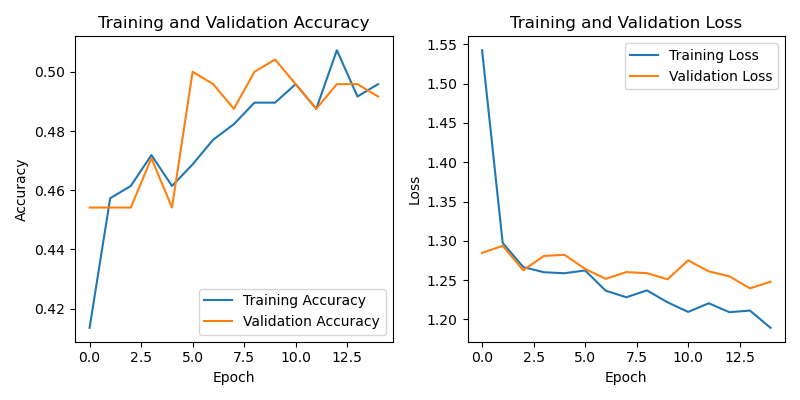
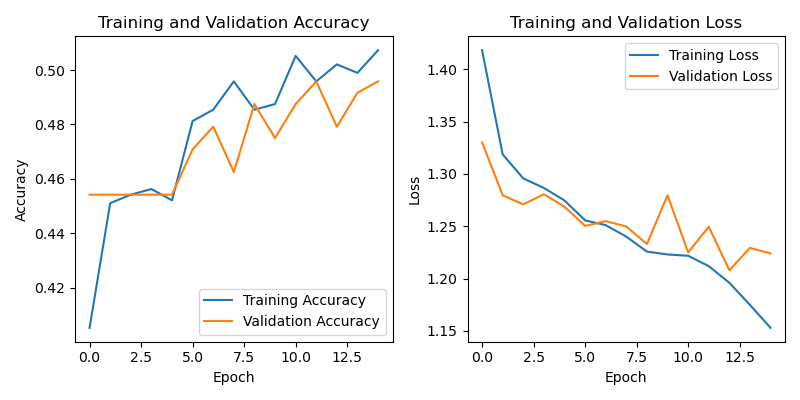
Retarget dataset paths to sibling MLImages, refresh result plots
cnn.py and svm.py now read from ../MLImages/Messidor1/All (sibling
checkout) instead of the in-repo ./MLImages/Messidor1/All224.

gan_generator.py is left in mid-experiment state: image_dir points at
./MLImages/tempAll while metadata_path still references
./MLImages/All64/metadata.csv. Committed as-is to preserve the working
state rather than guess the intended pairing.

svm_confusion_matrix.png and training_validation_plot.png regenerated
from the latest run.

diff --git a/cnn.py b/cnn.py
@@ -8,8 +8,8 @@ from sklearn.model_selection import train_test_split
 import tensorflow as tf
 from tensorflow.keras import layers, models
 
-image_dir = './MLImages/Messidor1/All224'
-metadata_path = './MLImages/Messidor1/Annotation_Base_CSV/Annotation_All.csv'
+image_dir = '../MLImages/Messidor1/All'
+metadata_path = '../MLImages/Messidor1/Annotation_Base_CSV/Annotation_All.csv'
 img_height = 224
 img_width = 224
 batch_size = 32

diff --git a/svm.py b/svm.py
@@ -13,8 +13,8 @@ import tensorflow as tf
 from tensorflow.keras.applications import vgg16
 from tensorflow.keras import layers, models
 
-image_dir = './MLImages/Messidor1/All224'
-metadata_path = './MLImages/Messidor1/Annotation_Base_CSV/Annotation_All.csv'
+image_dir = '../MLImages/Messidor1/All'
+metadata_path = '../MLImages/Messidor1/Annotation_Base_CSV/Annotation_All.csv'
 img_height = 224
 img_width = 224
 img_channels = 3

diff --git a/gan_generator.py b/gan_generator.py
@@ -19,7 +19,7 @@ batch_size = 32
 buffer_size = 4759
 learning_rate = 1e-4
 
-image_dir = './MLImages/All64'
+image_dir = './MLImages/tempAll'
 metadata_path = './MLImages/All64/metadata.csv'
 checkpoint_dir = './training_checkpoints_gan'
 